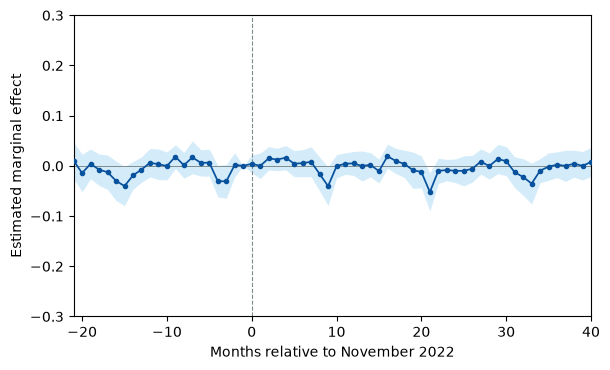
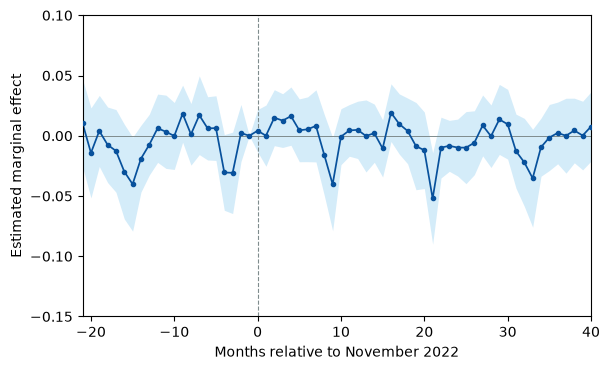
scale Jev event plots individually

diff --git a/analysis/paper_replication/lib/jev_robustness.py b/analysis/paper_replication/lib/jev_robustness.py
@@ -130,12 +130,16 @@ def _render_event_file(source: Path, destination: Path, ylim: tuple[float, float
     plt.close(fig)
 
 
-def _shared_unemployed_limits(sources: list[Path]) -> tuple[float, float]:
-    """Give all unemployment event studies a common range that contains every CI."""
+def _event_y_limits(source: Path, tick_step: float) -> tuple[float, float]:
+    """Set an event plot's own y range from its confidence interval, with padding."""
 
-    max_ci = max(float(pd.read_csv(source)["ci_high"].max()) for source in sources)
-    upper = max(0.05, math.ceil((max_ci + 0.0125) / 0.025) * 0.025)
-    return -0.05, round(upper, 3)
+    frame = pd.read_csv(source)
+    ci_low = float(frame["ci_low"].min())
+    ci_high = float(frame["ci_high"].max())
+    padding = max((ci_high - ci_low) * 0.10, tick_step / 2)
+    lower = math.floor((min(0.0, ci_low) - padding) / tick_step + 1e-9) * tick_step
+    upper = math.ceil((max(0.0, ci_high) + padding) / tick_step - 1e-9) * tick_step
+    return round(lower, 3), round(upper, 3)
 
 
 def build_jev_robustness_outputs(
@@ -316,25 +320,20 @@ def build_jev_robustness_outputs(
     pd.DataFrame(rows).to_csv(results_path, index=False)
 
     figure_paths: dict[str, Path] = {}
-    unemployed_sources = [
-        estimates / f"twfe_event_jev_{measure}_cno1_month_ln_parados.csv"
-        for measure in ("nearest", "weighted", "direct")
-    ]
-    unemployed_limits = _shared_unemployed_limits(unemployed_sources)
     for measure, spec_measure in [
         ("nearest", "nearest"),
         ("weighted", "weighted"),
         ("direct", "direct"),
     ]:
-        for outcome, outcome_file, limits, step in [
-            ("unemployed", "ln_parados", unemployed_limits, 0.025),
-            ("contracts", "ln_contratos", (-0.30, 0.30), 0.10),
+        for outcome, outcome_file, step in [
+            ("unemployed", "ln_parados", 0.025),
+            ("contracts", "ln_contratos", 0.05),
         ]:
             source = estimates / f"twfe_event_jev_{spec_measure}_cno1_month_{outcome_file}.csv"
             if not source.exists():
                 raise FileNotFoundError(f"Missing event-study result: {source}")
             destination = output / f"Robustness_{outcome}_jev_{measure}.png"
-            _render_event_file(source, destination, limits, step)
+            _render_event_file(source, destination, _event_y_limits(source, step), step)
             figure_paths[f"{outcome}_{measure}"] = destination
     return {"table": table_path, "table_csv": results_path, **figure_paths}
 

diff --git a/tests/test_jev_robustness.py b/tests/test_jev_robustness.py
@@ -10,7 +10,7 @@ ROOT = Path(__file__).resolve().parents[1]
 sys.path.insert(0, str(ROOT / "analysis" / "paper_replication"))
 
 from lib.jev_robustness import (
-    _shared_unemployed_limits,
+    _event_y_limits,
     build_exposure_correlation_matrix,
     build_jev_robustness_outputs,
     prepare_jev_panel,
@@ -77,16 +77,16 @@ class JevRobustnessTests(unittest.TestCase):
                 file_frame = event_frame.copy()
                 if measure == "direct" and outcome == "ln_parados":
                     file_frame["ci_high"] = 0.12
+                    file_frame["ci_low"] = -0.06
                 file_frame.to_csv(
                     estimates_dir / f"twfe_event_jev_{measure}_cno1_month_{outcome}.csv",
                     index=False,
                 )
 
-        unemployment_files = [
-            estimates_dir / f"twfe_event_jev_{measure}_cno1_month_ln_parados.csv"
-            for measure in ("nearest", "weighted", "direct")
-        ]
-        self.assertEqual(_shared_unemployed_limits(unemployment_files), (-0.05, 0.15))
+        nearest_unemployment = estimates_dir / "twfe_event_jev_nearest_cno1_month_ln_parados.csv"
+        direct_unemployment = estimates_dir / "twfe_event_jev_direct_cno1_month_ln_parados.csv"
+        self.assertEqual(_event_y_limits(nearest_unemployment, 0.025), (-0.025, 0.025))
+        self.assertEqual(_event_y_limits(direct_unemployment, 0.025), (-0.1, 0.15))
 
         outputs = build_jev_robustness_outputs(estimates_dir, output_dir)
         table = Path(outputs["table"]).read_text(encoding="utf-8")
